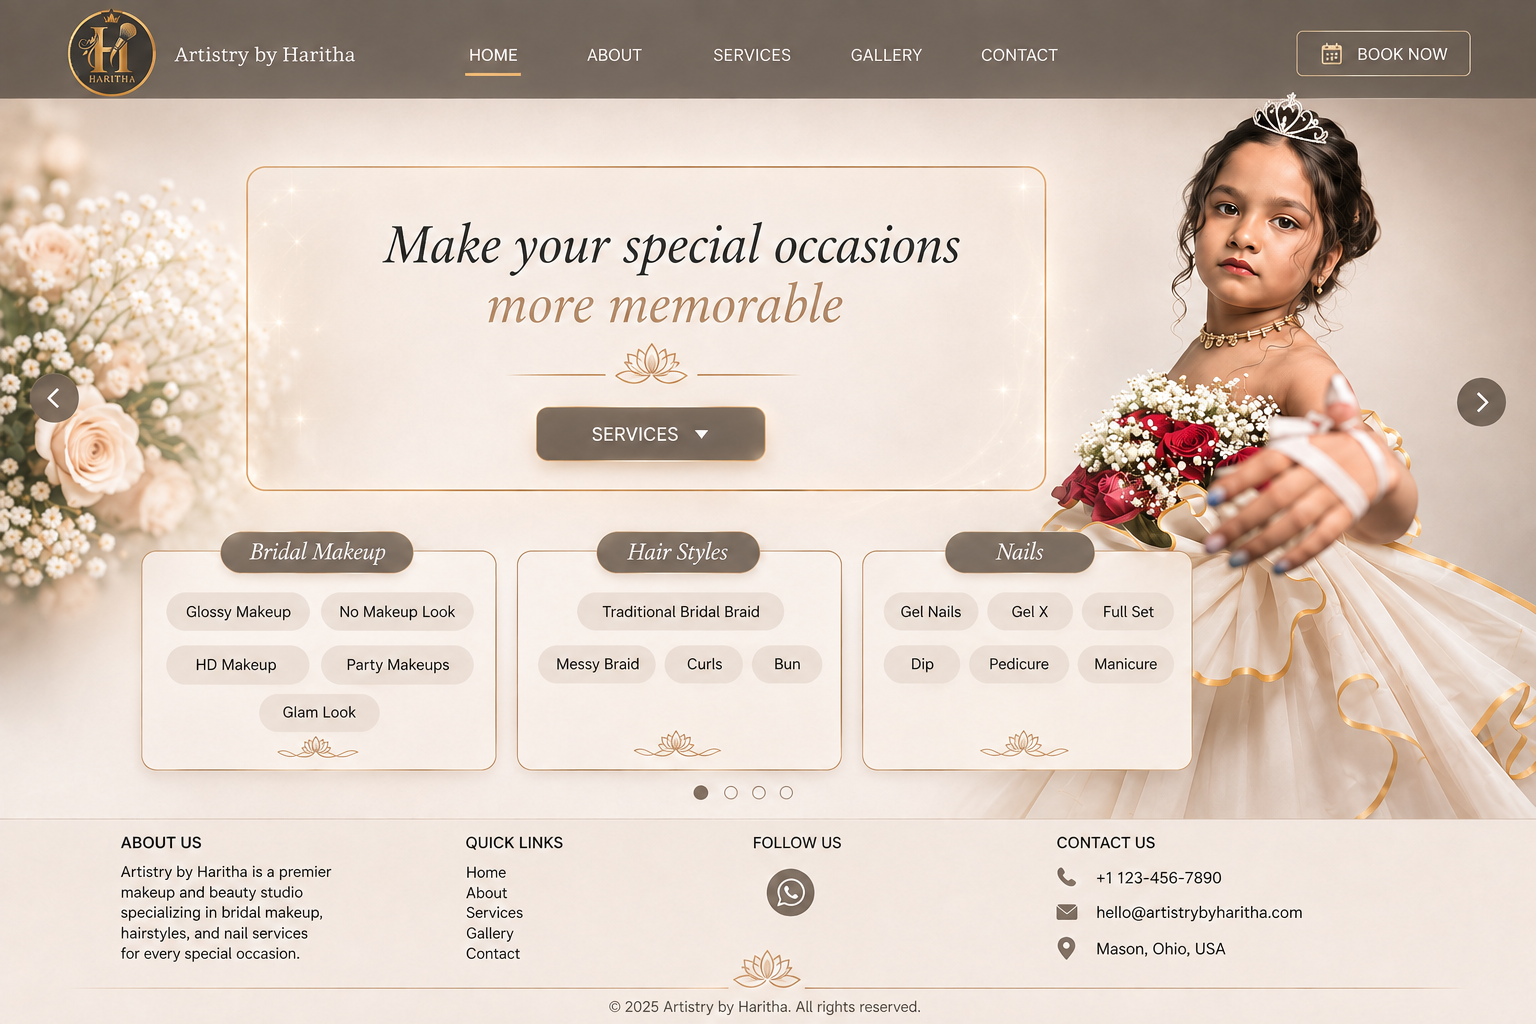
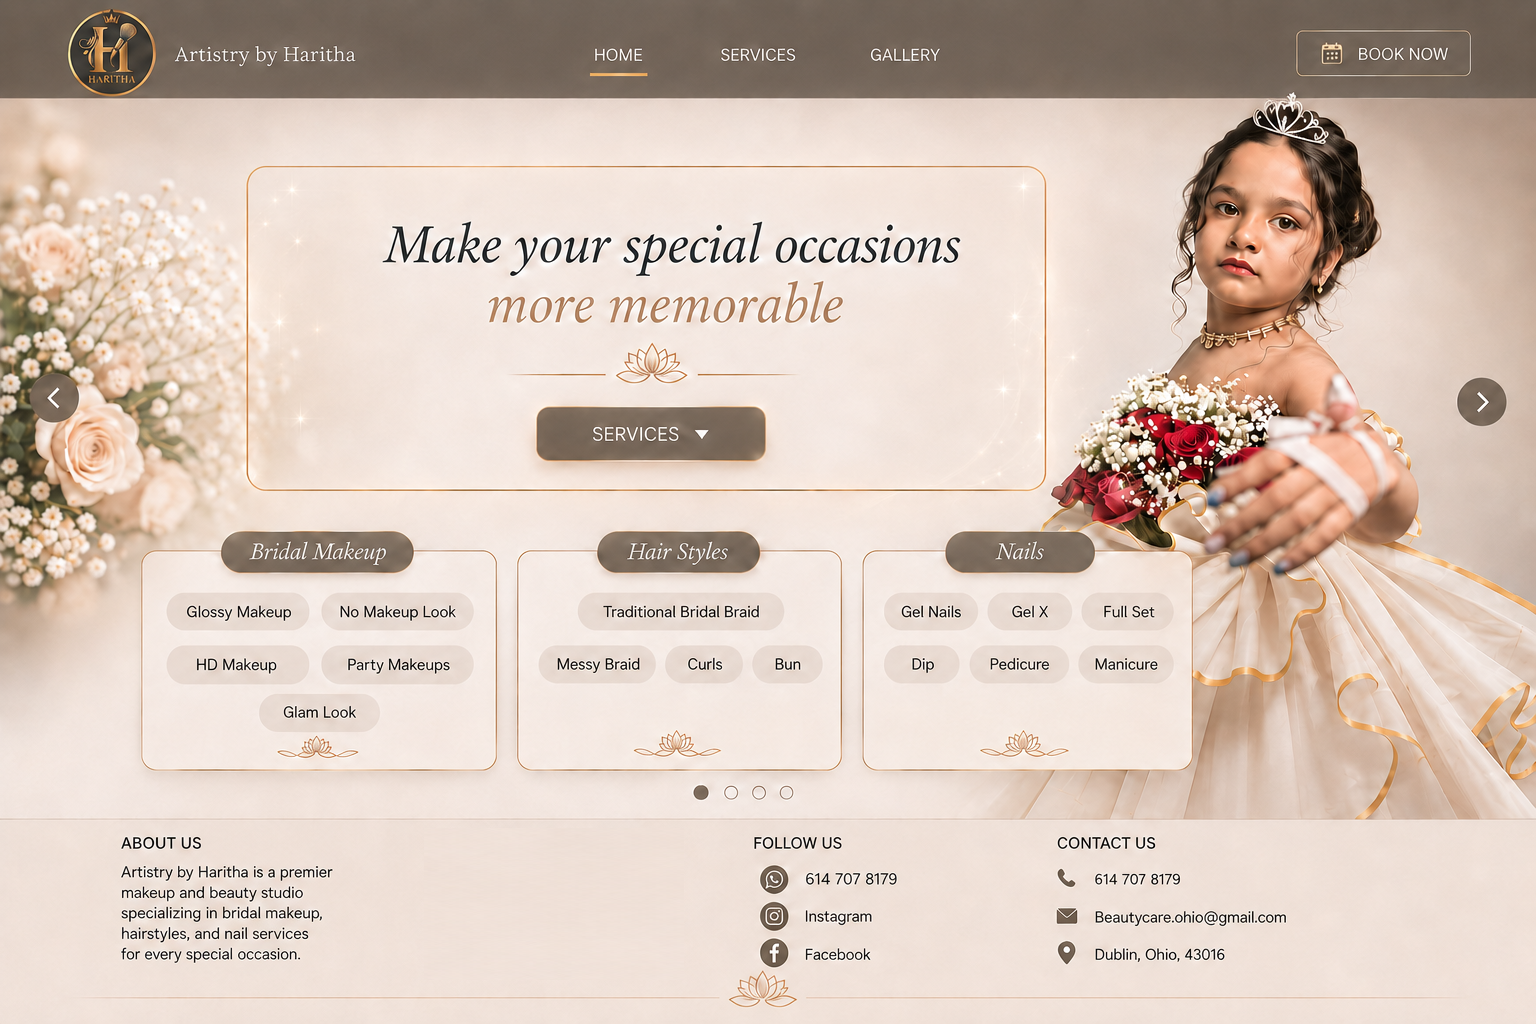
Add files via upload

diff --git a/index.html b/index.html
@@ -52,14 +52,14 @@
 
     .slides {
       display: flex;
-      width: 400%;
+      width: 500%;
       height: 100%;
       transition: transform .72s cubic-bezier(.77, 0, .18, 1);
     }
 
     .slide {
       position: relative;
-      width: 25%;
+      width: 20%;
       height: 100%;
       flex-shrink: 0;
       overflow: hidden;
@@ -143,11 +143,12 @@
 
     .button-hover:hover,
     .button-hover:focus-visible {
-      background: rgba(191, 154, 108, .10);
+      background: linear-gradient(135deg, rgba(225, 190, 133, .72), rgba(157, 113, 70, .64));
       box-shadow:
-        0 0 22px rgba(191, 154, 108, .26),
-        inset 0 0 0 1px rgba(201, 164, 111, .26);
-      transform: translateY(-1px);
+        0 5px 18px rgba(94, 61, 31, .34),
+        0 0 0 2px rgba(255, 231, 188, .85),
+        inset 0 0 0 1px rgba(112, 71, 35, .45);
+      transform: translateY(-2px) scale(1.045);
     }
 
     .circle-hover {
@@ -165,14 +166,134 @@
       transform: scale(1.06);
     }
 
+    /* These layers sit over the navigation and footer printed inside the
+       approved artwork. The artwork itself is never edited. */
+    .site-header-overlay {
+      position: absolute;
+      z-index: 15;
+      left: 25.5%;
+      right: 0;
+      top: 0;
+      height: 9.8%;
+      display: flex;
+      align-items: center;
+      justify-content: flex-end;
+      gap: clamp(14px, 2.8vw, 48px);
+      padding: 0 2.2% 0 3%;
+      background: linear-gradient(90deg, rgba(73, 59, 48, .95), rgba(77, 63, 52, .95));
+    }
+
+    .site-header-overlay a,
+    .footer-links a,
+    .social-links a {
+      color: inherit;
+      text-decoration: none;
+    }
+
+    .site-header-overlay a {
+      color: #fffaf5;
+      font-size: clamp(10px, 1.08vw, 17px);
+      letter-spacing: .02em;
+      padding: 8px 11px;
+      border-radius: 9px;
+      white-space: nowrap;
+    }
+
+    .site-header-overlay .book-now {
+      border: 1px solid var(--gold-soft);
+      padding: 9px 18px;
+    }
+
+    .site-footer-overlay {
+      position: absolute;
+      z-index: 15;
+      inset: auto 0 0;
+      height: 23.1%;
+      padding: 1.1% 7.8% .8%;
+      background: rgba(255, 250, 246, .97);
+      border-top: 1px solid rgba(180, 136, 90, .36);
+      display: grid;
+      grid-template-columns: 1.25fr 1fr 1.35fr;
+      column-gap: 10%;
+      align-content: start;
+    }
+
+    .footer-column h3 {
+      margin: 0 0 8px;
+      font-size: clamp(10px, .95vw, 15px);
+      font-weight: 700;
+      text-transform: uppercase;
+    }
+
+    .footer-column p,
+    .footer-column a {
+      font-size: clamp(9px, .86vw, 14px);
+      line-height: 1.45;
+    }
+
+    .footer-links,
+    .social-links {
+      display: flex;
+      flex-direction: column;
+      align-items: flex-start;
+      gap: 2px;
+    }
+
+    .footer-links a:hover,
+    .social-links a:hover {
+      color: #8c5a2b;
+      text-decoration: underline;
+    }
+
+    .social-links { gap: 6px; }
+    .social-links a { font-weight: 600; }
+    .contact-detail { display: block; margin-bottom: 5px; }
+
+    .footer-copyright {
+      grid-column: 1 / -1;
+      align-self: end;
+      justify-self: center;
+      margin-top: 7px;
+      padding-top: 5px;
+      width: 100%;
+      border-top: 1px solid rgba(201, 164, 111, .35);
+      text-align: center;
+      color: #6e6157;
+      font-size: clamp(8px, .78vw, 12px);
+    }
+
+    /* Keep the original artwork and cover only its printed footer. */
+    .site-header-overlay,
+    .site-footer-overlay { display: none; }
+    .footer-column:nth-child(2) { justify-self: center; }
+    .footer-column:nth-child(3) { justify-self: end; }
+    .footer-column:nth-child(3) .contact-detail { white-space: nowrap; }
+
+    .gallery-canvas { background: #fbf2ea; padding: 7.3% 11% 22%; }
+    .gallery-canvas::before { content:""; position:absolute; inset:0; background:radial-gradient(circle at 7% 38%,rgba(244,210,174,.52),transparent 18%),radial-gradient(circle at 90% 50%,rgba(250,226,208,.68),transparent 24%); pointer-events:none; }
+    .gallery-content { position:relative; z-index:1; height:100%; padding:2.5% 3.5%; border:1px solid #e4b87d; border-radius:17px; background:rgba(255,252,248,.58); box-shadow:0 8px 18px rgba(102,72,48,.08); }
+    .gallery-title { font:italic 3vw Georgia,serif; text-align:center; margin:0 0 .6%; }
+    .gallery-subtitle { text-align:center; margin:0 0 2%; font-size:1.05vw; color:#65584e; }
+    .gallery-grid { display:grid; grid-template-columns:repeat(4,1fr); gap:1.5%; }
+    .gallery-card { margin:0; padding:5%; border:1px solid #ecc790; border-radius:12px; background:#fffaf6; box-shadow:0 4px 10px rgba(83,59,42,.1); overflow:hidden; transition:.25s ease; }
+    .gallery-card img { width:100%; height:11.6vw; display:block; object-fit:cover; border-radius:8px; }
+    .gallery-card figcaption { padding-top:6%; font:italic 1.05vw Georgia,serif; text-align:center; }
+    .gallery-card:hover { transform:translateY(-5px) scale(1.015); box-shadow:0 12px 22px rgba(137,92,47,.22),0 0 0 2px rgba(225,174,96,.35); }
+    .gallery-header { position:absolute; z-index:2; top:0; left:0; width:100%; height:9.8%; display:flex; align-items:center; padding:0 4.5%; color:#fff; background:linear-gradient(100deg,#5b4b3f,#786656,#51453b); }
+    .gallery-brand { display:flex; align-items:center; gap:1.1vw; font:1.45vw Georgia,serif; }
+    .gallery-brand img { width:5vw; height:5vw; object-fit:cover; border-radius:50%; }
+    .gallery-nav { display:flex; gap:4.7vw; margin-left:auto; align-items:center; font-size:1.15vw; }
+    .gallery-nav button, .gallery-nav a { color:#fff; font:inherit; text-decoration:none; background:transparent; border:0; cursor:pointer; }
+    .gallery-nav .book-gallery { border:1px solid #d4b181; border-radius:7px; padding:.65vw 1.3vw; }
+
     /* =========================================================
        COMMON HEADER HOTSPOTS
     ========================================================= */
 
-    .nav-home     { left: 30.0%; top: 3.5%; width: 5.6%; height: 4.6%; }
+    .nav-home     { left: 37.6%; top: 3.5%; width: 5.6%; height: 4.6%; }
     .nav-about    { left: 38.1%; top: 3.5%; width: 6.1%; height: 4.6%; }
     .nav-services { left: 46.0%; top: 3.5%; width: 7.0%; height: 4.6%; }
-    .nav-gallery  { left: 54.9%; top: 3.5%; width: 7.2%; height: 4.6%; }
+    .nav-gallery  { left: 55.0%; top: 3.5%; width: 7.2%; height: 4.6%; }
     .nav-contact  { left: 63.4%; top: 3.5%; width: 7.0%; height: 4.6%; }
     .nav-book     { right: 4.0%; top: 2.2%; width: 11.5%; height: 5.2%; }
 
@@ -262,6 +383,16 @@
     .nails-book-4 { left: 31.2%; top: 66.0%; width: 5.7%; height: 3.0%; }
     .nails-book-5 { left: 57.4%; top: 66.0%; width: 5.7%; height: 3.0%; }
     .nails-book-6 { left: 82.2%; top: 66.0%; width: 5.7%; height: 3.0%; }
+
+    /* Social links printed inside the revised slide images. */
+    .footer-whatsapp { left: 48.3%; top: 82.7%; width: 9.8%; height: 2.2%; }
+    .footer-instagram { left: 48.3%; top: 86.5%; width: 8.2%; height: 2.2%; }
+    .footer-facebook { left: 48.3%; top: 90.1%; width: 8.2%; height: 2.2%; }
+
+    /* The Home artwork has a taller footer than the service artworks. */
+    .home-artwork .footer-whatsapp { top: 84.85%; }
+    .home-artwork .footer-instagram { top: 88.65%; }
+    .home-artwork .footer-facebook { top: 92.25%; }
 
     /* Printed dots at bottom of each page. */
     .dot-1 { left: 47.1%; top: 76.5%; width: 1.2%; height: 2.2%; }
@@ -407,15 +538,20 @@
            SLIDE 1 — HOME
       ====================================================== -->
       <section class="slide">
-        <div class="artwork-canvas">
+        <div class="artwork-canvas home-artwork">
           <img src="artistry-design.png" alt="Artistry by Haritha home page" />
+
+          <footer class="site-footer-overlay">
+            <section class="footer-column"><h3>About Us</h3><p>Artistry by Haritha is a premier<br>makeup and beauty studio<br>specializing in bridal makeup,<br>hairstyles, and nail services<br>for every special occasion.</p></section>
+            <section class="footer-column"><h3>Follow Us</h3><div class="social-links"><a href="https://wa.me/16147078179" target="_blank">◉ &nbsp;614 707 8179</a><a href="https://www.instagram.com/haritha_makeup_hairstyle" target="_blank">◎ &nbsp;Instagram</a><a href="https://www.facebook.com/search/top?q=haritha%20reddy" target="_blank">● &nbsp;Facebook</a></div></section>
+            <section class="footer-column"><h3>Contact Us</h3><a class="contact-detail" href="tel:+16147078179">☎ &nbsp; 614 707 8179</a><a class="contact-detail" href="mailto:Beautycare.ohio@gmail.com">✉ &nbsp; Beautycare.ohio@gmail.com</a><span class="contact-detail">● &nbsp; Dublin, Ohio, 43016</span></section>
+            <div class="footer-copyright">© 2025 Artistry by Haritha. All rights reserved.</div>
+          </footer>
 
           <!-- Header -->
           <button class="hotspot nav-home button-hover" onclick="goToSlide(0)" aria-label="Home"></button>
-          <button class="hotspot nav-about button-hover" onclick="showToast('About section selected')" aria-label="About"></button>
           <button class="hotspot nav-services button-hover open-services-popup" aria-label="Services"></button>
-          <button class="hotspot nav-gallery button-hover" onclick="goToSlide(1)" aria-label="Gallery"></button>
-          <button class="hotspot nav-contact button-hover" onclick="showToast('Contact details are shown below')" aria-label="Contact"></button>
+          <button class="hotspot nav-gallery button-hover" onclick="goToSlide(4)" aria-label="Gallery"></button>
           <button class="hotspot nav-book button-hover" onclick="showToast('Booking request selected')" aria-label="Book Now"></button>
 
           <!-- Side arrows -->
@@ -459,13 +595,17 @@
       <section class="slide">
         <div class="artwork-canvas">
           <img src="bridal.png" alt="Bridal Makeup Artistry" />
+          <footer class="site-footer-overlay">
+            <section class="footer-column"><h3>About Us</h3><p>Artistry by Haritha is a premier<br>makeup and beauty studio<br>specializing in bridal makeup,<br>hairstyles, and nail services<br>for every special occasion.</p></section>
+            <section class="footer-column"><h3>Follow Us</h3><div class="social-links"><a href="https://wa.me/16147078179" target="_blank">◉ &nbsp;614 707 8179</a><a href="https://www.instagram.com/haritha_makeup_hairstyle" target="_blank">◎ &nbsp;Instagram</a><a href="https://www.facebook.com/search/top?q=haritha%20reddy" target="_blank">● &nbsp;Facebook</a></div></section>
+            <section class="footer-column"><h3>Contact Us</h3><a class="contact-detail" href="tel:+16147078179">☎ &nbsp; 614 707 8179</a><a class="contact-detail" href="mailto:Beautycare.ohio@gmail.com">✉ &nbsp; Beautycare.ohio@gmail.com</a><span class="contact-detail">● &nbsp; Dublin, Ohio, 43016</span></section>
+            <div class="footer-copyright">© 2025 Artistry by Haritha. All rights reserved.</div>
+          </footer>
 
           <!-- Header -->
           <button class="hotspot nav-home button-hover" onclick="goToSlide(0)" aria-label="Home"></button>
-          <button class="hotspot nav-about button-hover" onclick="showToast('About section selected')" aria-label="About"></button>
           <button class="hotspot nav-services button-hover open-services-popup" aria-label="Services"></button>
-          <button class="hotspot nav-gallery button-hover" onclick="goToSlide(1)" aria-label="Gallery"></button>
-          <button class="hotspot nav-contact button-hover" onclick="showToast('Contact details are shown below')" aria-label="Contact"></button>
+          <button class="hotspot nav-gallery button-hover" onclick="goToSlide(4)" aria-label="Gallery"></button>
           <button class="hotspot nav-book button-hover" onclick="showToast('Booking request selected')" aria-label="Book Now"></button>
 
           <button class="hotspot sub-back button-hover" onclick="goToSlide(0)" aria-label="Back Home"></button>
@@ -492,13 +632,17 @@
       <section class="slide">
         <div class="artwork-canvas">
           <img src="hair.png" alt="Hair Styling Artistry" />
+          <footer class="site-footer-overlay">
+            <section class="footer-column"><h3>About Us</h3><p>Artistry by Haritha is a premier<br>makeup and beauty studio<br>specializing in bridal makeup,<br>hairstyles, and nail services<br>for every special occasion.</p></section>
+            <section class="footer-column"><h3>Follow Us</h3><div class="social-links"><a href="https://wa.me/16147078179" target="_blank">◉ &nbsp;614 707 8179</a><a href="https://www.instagram.com/haritha_makeup_hairstyle" target="_blank">◎ &nbsp;Instagram</a><a href="https://www.facebook.com/search/top?q=haritha%20reddy" target="_blank">● &nbsp;Facebook</a></div></section>
+            <section class="footer-column"><h3>Contact Us</h3><a class="contact-detail" href="tel:+16147078179">☎ &nbsp; 614 707 8179</a><a class="contact-detail" href="mailto:Beautycare.ohio@gmail.com">✉ &nbsp; Beautycare.ohio@gmail.com</a><span class="contact-detail">● &nbsp; Dublin, Ohio, 43016</span></section>
+            <div class="footer-copyright">© 2025 Artistry by Haritha. All rights reserved.</div>
+          </footer>
 
           <!-- Header -->
           <button class="hotspot nav-home button-hover" onclick="goToSlide(0)" aria-label="Home"></button>
-          <button class="hotspot nav-about button-hover" onclick="showToast('About section selected')" aria-label="About"></button>
           <button class="hotspot nav-services button-hover open-services-popup" aria-label="Services"></button>
-          <button class="hotspot nav-gallery button-hover" onclick="goToSlide(2)" aria-label="Gallery"></button>
-          <button class="hotspot nav-contact button-hover" onclick="showToast('Contact details are shown below')" aria-label="Contact"></button>
+          <button class="hotspot nav-gallery button-hover" onclick="goToSlide(4)" aria-label="Gallery"></button>
           <button class="hotspot nav-book button-hover" onclick="showToast('Booking request selected')" aria-label="Book Now"></button>
 
           <button class="hotspot sub-back button-hover" onclick="goToSlide(0)" aria-label="Back Home"></button>
@@ -523,13 +667,17 @@
       <section class="slide">
         <div class="artwork-canvas">
           <img src="nails.png" alt="Nail Art and Care" />
+          <footer class="site-footer-overlay">
+            <section class="footer-column"><h3>About Us</h3><p>Artistry by Haritha is a premier<br>makeup and beauty studio<br>specializing in bridal makeup,<br>hairstyles, and nail services<br>for every special occasion.</p></section>
+            <section class="footer-column"><h3>Follow Us</h3><div class="social-links"><a href="https://wa.me/16147078179" target="_blank">◉ &nbsp;614 707 8179</a><a href="https://www.instagram.com/haritha_makeup_hairstyle" target="_blank">◎ &nbsp;Instagram</a><a href="https://www.facebook.com/search/top?q=haritha%20reddy" target="_blank">● &nbsp;Facebook</a></div></section>
+            <section class="footer-column"><h3>Contact Us</h3><a class="contact-detail" href="tel:+16147078179">☎ &nbsp; 614 707 8179</a><a class="contact-detail" href="mailto:Beautycare.ohio@gmail.com">✉ &nbsp; Beautycare.ohio@gmail.com</a><span class="contact-detail">● &nbsp; Dublin, Ohio, 43016</span></section>
+            <div class="footer-copyright">© 2025 Artistry by Haritha. All rights reserved.</div>
+          </footer>
 
           <!-- Header -->
           <button class="hotspot nav-home button-hover" onclick="goToSlide(0)" aria-label="Home"></button>
-          <button class="hotspot nav-about button-hover" onclick="showToast('About section selected')" aria-label="About"></button>
           <button class="hotspot nav-services button-hover open-services-popup" aria-label="Services"></button>
-          <button class="hotspot nav-gallery button-hover" onclick="goToSlide(3)" aria-label="Gallery"></button>
-          <button class="hotspot nav-contact button-hover" onclick="showToast('Contact details are shown below')" aria-label="Contact"></button>
+          <button class="hotspot nav-gallery button-hover" onclick="goToSlide(4)" aria-label="Gallery"></button>
           <button class="hotspot nav-book button-hover" onclick="showToast('Booking request selected')" aria-label="Book Now"></button>
 
           <button class="hotspot sub-back button-hover" onclick="goToSlide(0)" aria-label="Back Home"></button>
@@ -547,6 +695,21 @@
           <button class="hotspot dot-2 circle-hover" onclick="goToSlide(1)" aria-label="Bridal slide"></button>
           <button class="hotspot dot-3 circle-hover" onclick="goToSlide(2)" aria-label="Hair slide"></button>
           <button class="hotspot dot-4 circle-hover" onclick="goToSlide(3)" aria-label="Nails slide"></button>
+        </div>
+      </section>
+
+      <!-- =====================================================
+           SLIDE 5 — GALLERY
+      ====================================================== -->
+      <section class="slide">
+        <div class="artwork-canvas">
+          <img src="gallery.png" alt="Artistry by Haritha gallery" />
+          <button class="hotspot nav-home button-hover" onclick="goToSlide(0)" aria-label="Home"></button>
+          <button class="hotspot nav-services button-hover open-services-popup" aria-label="Services"></button>
+          <button class="hotspot nav-gallery button-hover" aria-label="Gallery"></button>
+          <button class="hotspot nav-book button-hover" onclick="showToast('Booking request selected')" aria-label="Book Now"></button>
+          <button class="hotspot sub-left circle-hover" onclick="previousSlide()" aria-label="Previous slide"></button>
+          <button class="hotspot sub-right circle-hover" onclick="nextSlide()" aria-label="Next slide"></button>
         </div>
       </section>
 
@@ -640,19 +803,28 @@
 
   <script>
     let currentSlide = 0;
-    const totalSlides = 4;
+    const totalSlides = 5;
     const slides = document.getElementById('slides');
     const servicesPopup = document.getElementById('servicesPopup');
     const popupClose = document.getElementById('popupClose');
     const toast = document.getElementById('toast');
     let toastTimer;
 
+    /* The Follow Us labels are printed inside each image. These precise
+       hotspots restore both the hover effect and the actual social links. */
+    document.querySelectorAll('.artwork-canvas').forEach((canvas) => {
+      canvas.insertAdjacentHTML('beforeend', `
+        <a class="hotspot soft-hover footer-whatsapp" href="https://wa.me/16147078179" target="_blank" rel="noopener" aria-label="WhatsApp 614 707 8179"></a>
+        <a class="hotspot soft-hover footer-instagram" href="https://www.instagram.com/haritha_makeup_hairstyle" target="_blank" rel="noopener" aria-label="Instagram"></a>
+        <a class="hotspot soft-hover footer-facebook" href="https://www.facebook.com/search/top?q=haritha%20reddy" target="_blank" rel="noopener" aria-label="Facebook"></a>`);
+    });
+
     function goToSlide(index) {
       if (index < 0) index = totalSlides - 1;
       if (index >= totalSlides) index = 0;
 
       currentSlide = index;
-      slides.style.transform = `translateX(-${currentSlide * 25}%)`;
+      slides.style.transform = `translateX(-${currentSlide * 20}%)`;
     }
 
     function previousSlide() {
